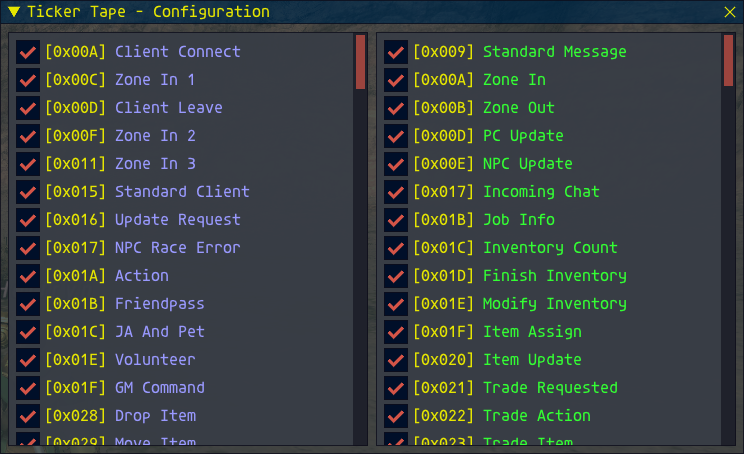
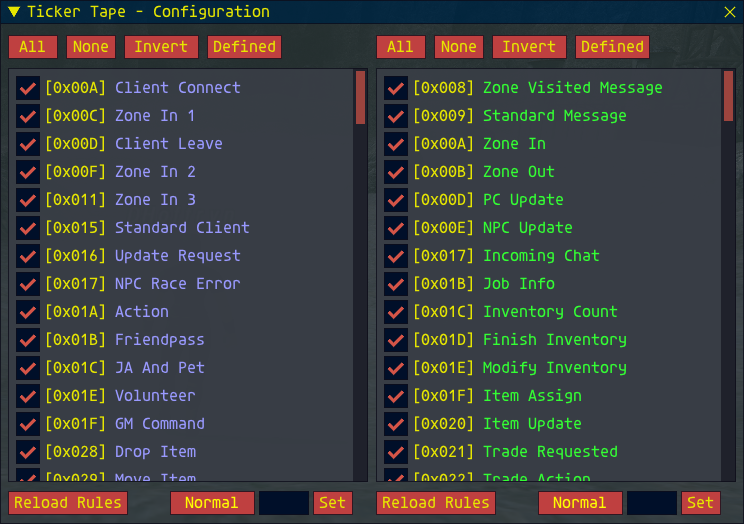
Trigger Packets
Updated to explain the use of trigger packets

Changed region(s): [[0.0, 0.0, 1.0, 1.0], [0.9892, 0.3392, 1.0, 0.37], [0.9892, 0.2467, 1.0, 0.2775]]

diff --git a/TickerTape/Manual/Guide.MD b/TickerTape/Manual/Guide.MD
@@ -18,7 +18,7 @@ If you want to auto-load the addon you will need to add it to the ***default.txt
 ##
 ### First Run
 
-When you start Ticker Tape you will see the ***Sequencer*** window ...
+When you start Ticker Tape you will see the (mostly empty) ***Sequencer*** window ...
 ### 
 ![TT-001](TT-001.png)
 ###
@@ -28,17 +28,19 @@ If the window does not appear you can use the command line ...
 
 This is a toggle and can be used to show / hide the windows at any time without interfering with the operation of the packet capture.
 
-You will see the packets streaming from the top of the window to the bottom, and then scrolling with the newest packet at the bottom of the window. While in ***run mode*** the window background is almost transparent minimizing the amount of the game information being obscured, while still showing the packet sequence.
+You will see the packets streaming from the top of the window to the bottom, and then scrolling with the newest packet at the bottom of the window. While in ***run mode*** (see the tick in the box at the very top left) the window background is almost transparent minimizing the amount of the game information being obscured, while still showing the sequence of packets flowing from the game.
+
+Each line has four (4) pieces of information ...
 ### 
 ![TT-002](TT-002.png)
 ###
-Each line has four (4) pieces of information, **A)** The time (min:sec) of the packet arrival, **B)** The ID (in Hex) of the packet, **C)** The direction of travel (this example is from the client to the Server) and finally **D)** The type of packet.
+**A)** Is the time (min:sec) when the packet arrival, **B)** Is the ID (in Hex) of the packet, **C)** The direction of travel (this example is from the Client to the Server, called an ***OUT*** packet) and finally **D)** The type of packet.
 
-The example below shows a packet travelling from the Server to the Client. The Blue / Green colour coding is a standard for FFXI packets ...
+The example below shows a packet traveling from the Server to the Client. The Blue / Green colour coding is a standard for FFXI packets ...
 ### 
 ![TT-003](TT-003.png)
 ###
-If you want to view a packet click on the Run button at the top left of the window, alternatively you can use the command ...
+If you want to view the contents of a packet you can click on the Run button at the top left of the window which will stop the sequencer. Alternatively you can use the command ...
 
 ```/tt run```
 
@@ -62,7 +64,7 @@ You will notice a tab at the bottom right of the Packet Viewer ...
 ### 
 ![TT-005a](TT-005a.png)
 ###
-This allows the window to be resized as needed.
+This allows the Packet Viewer window to be resized (vertically) as needed (it is locked horizontally).
 ##
 ### Filter
 
@@ -82,6 +84,76 @@ You can deselect any packet in these lists and the packet will no longer appear 
 - The addon will remember your settings between runs (You should manually load the addon to make use of this feature).
 ###
 - A packet that is disabled in this way will still be saved as part of a packet capture (see below).
+###
+- A packet that is disabled in this way can still be used as a trigger (see below).
+##
+Both the Out and In list have buttons above them that allow you to make mass selections ...
+
+|Button|Effect|
+|:---:|:---|
+|![TT-009](TT-009.png)|All packets (in this direction) will be enabled|
+|![TT-010](TT-010.png)|All packets (in this direction) will be disabled|
+|![TT-011](TT-011.png)|Invert the state of all packets. Enabled packets will be disabled and disabled packets will be enabled|
+|![TT-012](TT-012.png)|Packets that have a rule will be enabled, packets that don't have a rule will be disabled|
+###
+The last option is useful when you are adding new packet definitions to the rules file (thank you if you are).
+##
+### Triggering
+
+It is often the case that a packet you want to view is lost in the volume of packets sent. This is especially true when changing zone when between found and five **hundred** packets may be transferred. Using the trigger system allows you a way to catch the packet you are after.
+
+There is a trigger section at the bottom of each list (you can have a different trigger on In and Out and both can run at the same time) ...
+###
+![TT-013](TT-013.png)
+###
+For the purposes of this guide I want to look at the ***Inbound*** packet with the ID **0X0DF** (Char Update). I know that this packet is sent when zoning, but it gets lost.
+
+I will put the In the small edit field. Case doesn't matter and all input is considered to be hex so you can just put in **df** ...
+###
+![TT-014](TT-014.png)
+###
+Next click on the button to the left, this will cycle through the following modes ...
+
+|Button|Effect|
+|:---:|:---|
+|![TT-015](TT-015.png)|The trigger system is OFF|
+|![TT-016](TT-016.png)|When not running, the system will switch Run Mode **ON** when the identified packet is received|
+|![TT-017](TT-017.png)|When running, the system will switch Run Mode **OFF** when the identified packet is received|
+|![TT-018](TT-018.png)|When not running, the system will switch Run Mode **ON** when the identified packet is received and switch it **OFF** again 18 packets later|
+###
+We want to stop running when the packet is detected so toggle the button ...
+###
+![TT-019](TT-019.png)
+###
+Make sure that the sequencer is in Run Mode and click the **Set** button ...
+###
+![TT-020](TT-020.png)
+###
+The mode button will change to show that triggering is active, you will also notice that the trigger packet is identified in the appropriate list.
+
+So, now zone ...
+###
+![TT-021](TT-021.png)
+###
+The trigger controls will reset, the sequence will stop Run Mode and the packet we want will be at the bottom of the list.
+
+**Burst ON** is a bit different in that, you start with Run Mode **OFF**. Once the packet is detected Run Mode will switch ON for 18 packets and then switch OFF again.
+
+As soon as you click on the **Set** button you will see the Sequence become active, but the check box will still show it to be disabled. This is to allow the sequencer to capture the packets immediately before the trigger packet. Once triggered, the sequencer will capture an additional 18 packets (total from IN and OUT) and then stop ...
+###
+![TT-022](TT-022.png)
+###
+This allows you to see the packets just before and just after the trigger packet.
+
+To turn off the trigger mode (if you changed your mind) you can click on the trigger mode button, or the Set button a second time.
+##
+### Reloading Rules
+
+If you are editing a display rule it can be a pain when the packet is rare and hard to catch, the last thing you want to do is unload the addon, edit the definition and reload it and then hunt for the packet again
+
+Fortunately you can edit the definition while the addon is running and then click on the **Reload Rules** button to reload the appropriate definition list.
+
+While the addon tries to protect itself, it is STRONGLY suggested that you turn off Run Mode before you reload the rules. As you will be examining a packet this will usually be the case anyway.
 
 ##
 ### Capture

diff --git a/TickerTape/Manual/Prog.MD b/TickerTape/Manual/Prog.MD
@@ -150,6 +150,8 @@ While it is often enough to look at the raw value from the packet, sometimes it 
 |[attach](#attach)|An automation attachment name based on its Sub ID|
 |[time](#time)|Decodes a counter as a time string|
 |[psize](#psize)|Display the corrected packet size|
+|status|A status effect|
+
 ##
 #### Examples ...
 ###
@@ -418,6 +420,8 @@ A loop has a start **loop** command and an **end** command as shown below ...
 ![PG-044](PG-044.png)
 ###
 The value at **A** is the number of times the loop (the instructions between the **loop** and the **end**) will repeat, in this case a single line, line 6. The value at **B** is added to the byte offset of each line every time the end is reached. In this instance line 6 will be processed 20 times with an offset of 8, 9, 10, 11 etc.
+
+If **B** is set to -1 then the size of the target object is used, so in this example it would be 1 (byte), but if it was accessing a word or rword the increment would be 2 etc.
 
 The value at **C** is a BIT offset that can be added when you want to "walk down" a word, etc. In that instance you would probably set **B** to 0.
 
